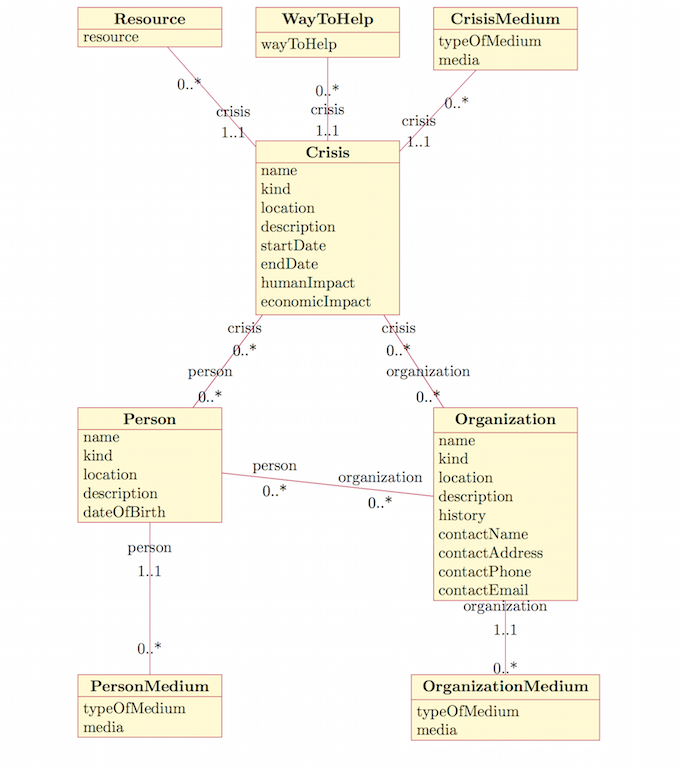
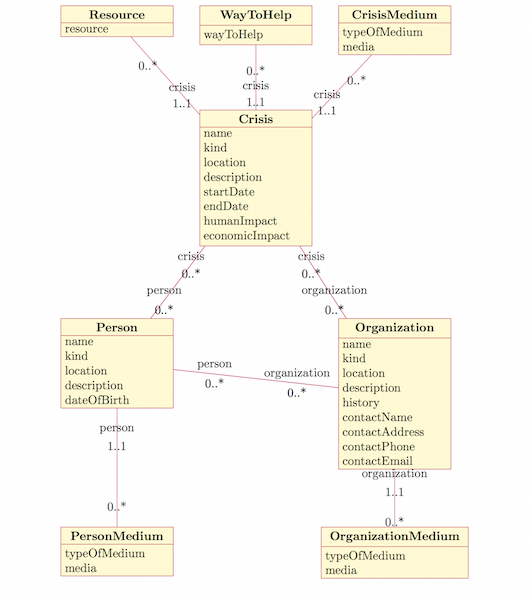
change image size

diff --git a/styles/main.css b/styles/main.css
@@ -133,7 +133,7 @@ img {
 }
 
 center > img{
-	height: 40%;
+	height: 35%;
 }
 
 center {
